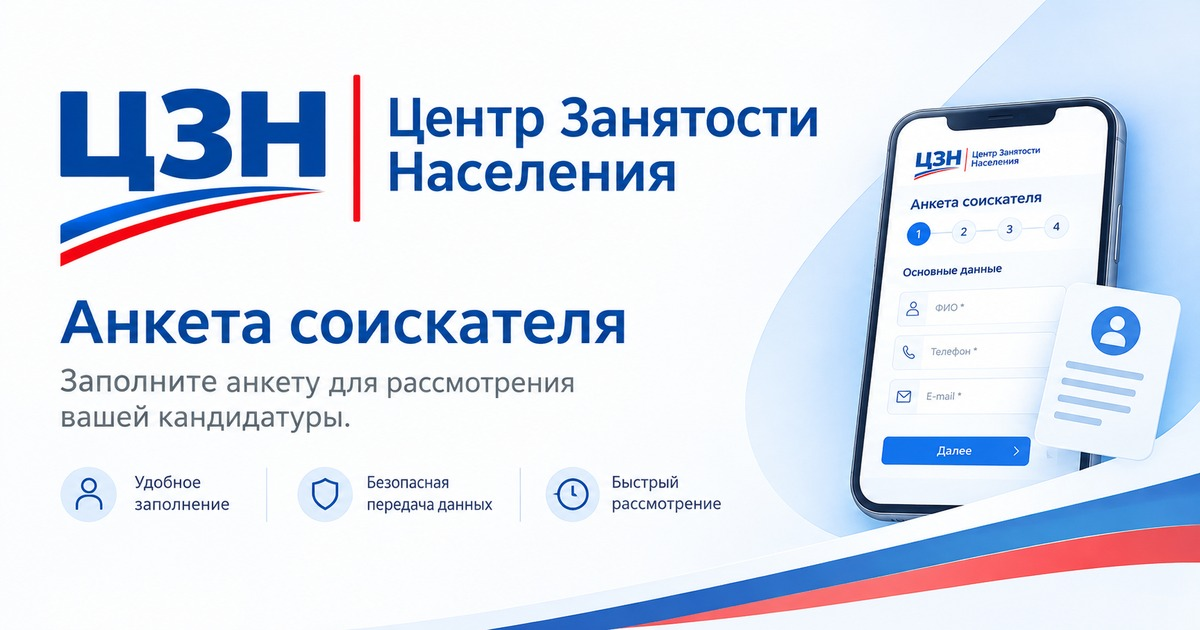
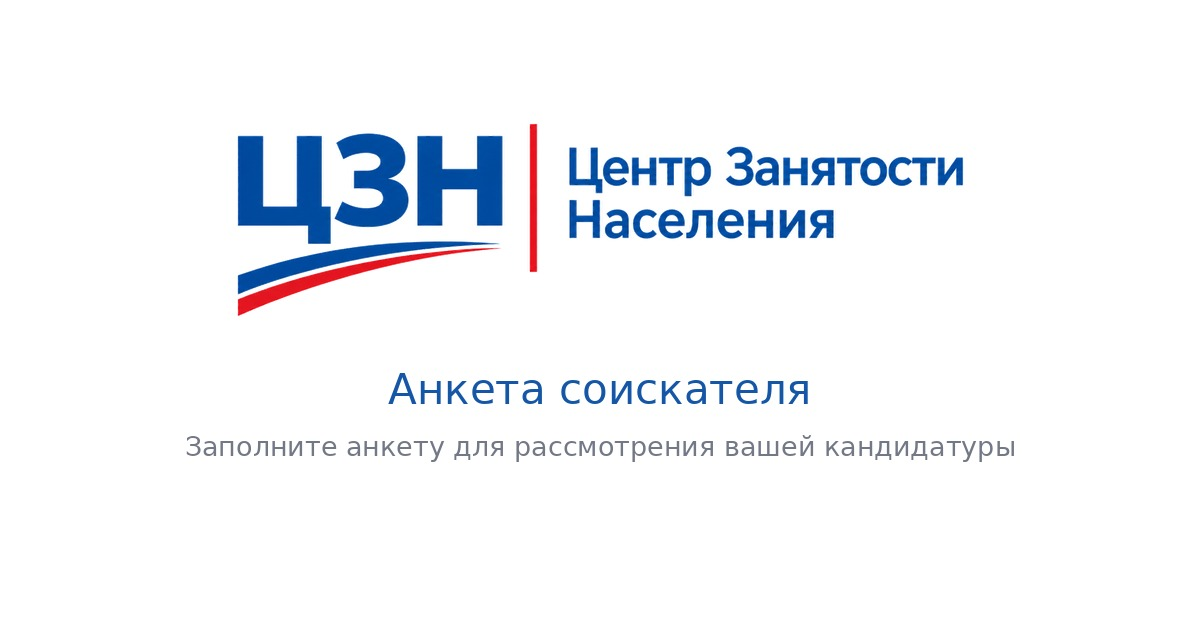
Preview fixed

Changed region(s): [[0.0308, 0.0, 1.0, 1.0], [0.0308, 0.7238, 0.185, 0.8444]]

diff --git a/public/index.html b/public/index.html
@@ -4,6 +4,20 @@
   <meta charset="UTF-8">
   <meta name="viewport" content="width=device-width, initial-scale=1, viewport-fit=cover">
   <meta name="theme-color" content="#f7f8fc">
+  <meta name="description" content="Анкета соискателя — заполните анкету для рассмотрения вашей кандидатуры.">
+  <meta property="og:type" content="website">
+  <meta property="og:site_name" content="Центр Занятости Населения">
+  <meta property="og:title" content="Анкета соискателя">
+  <meta property="og:description" content="Заполните анкету для рассмотрения вашей кандидатуры.">
+  <meta property="og:url" content="https://site001-production-1981.up.railway.app/">
+  <meta property="og:image" content="https://site001-production-1981.up.railway.app/assets/telegram-preview-v2.jpg">
+  <meta property="og:image:type" content="image/jpeg">
+  <meta property="og:image:width" content="1200">
+  <meta property="og:image:height" content="630">
+  <meta name="twitter:card" content="summary_large_image">
+  <meta name="twitter:title" content="Анкета соискателя">
+  <meta name="twitter:description" content="Заполните анкету для рассмотрения вашей кандидатуры.">
+  <meta name="twitter:image" content="https://site001-production-1981.up.railway.app/assets/telegram-preview-v2.jpg">
   <title>Анкета соискателя</title>
   <link rel="stylesheet" href="/styles.css?v=1.8.3">
   <link rel="manifest" href="/manifest.webmanifest">
